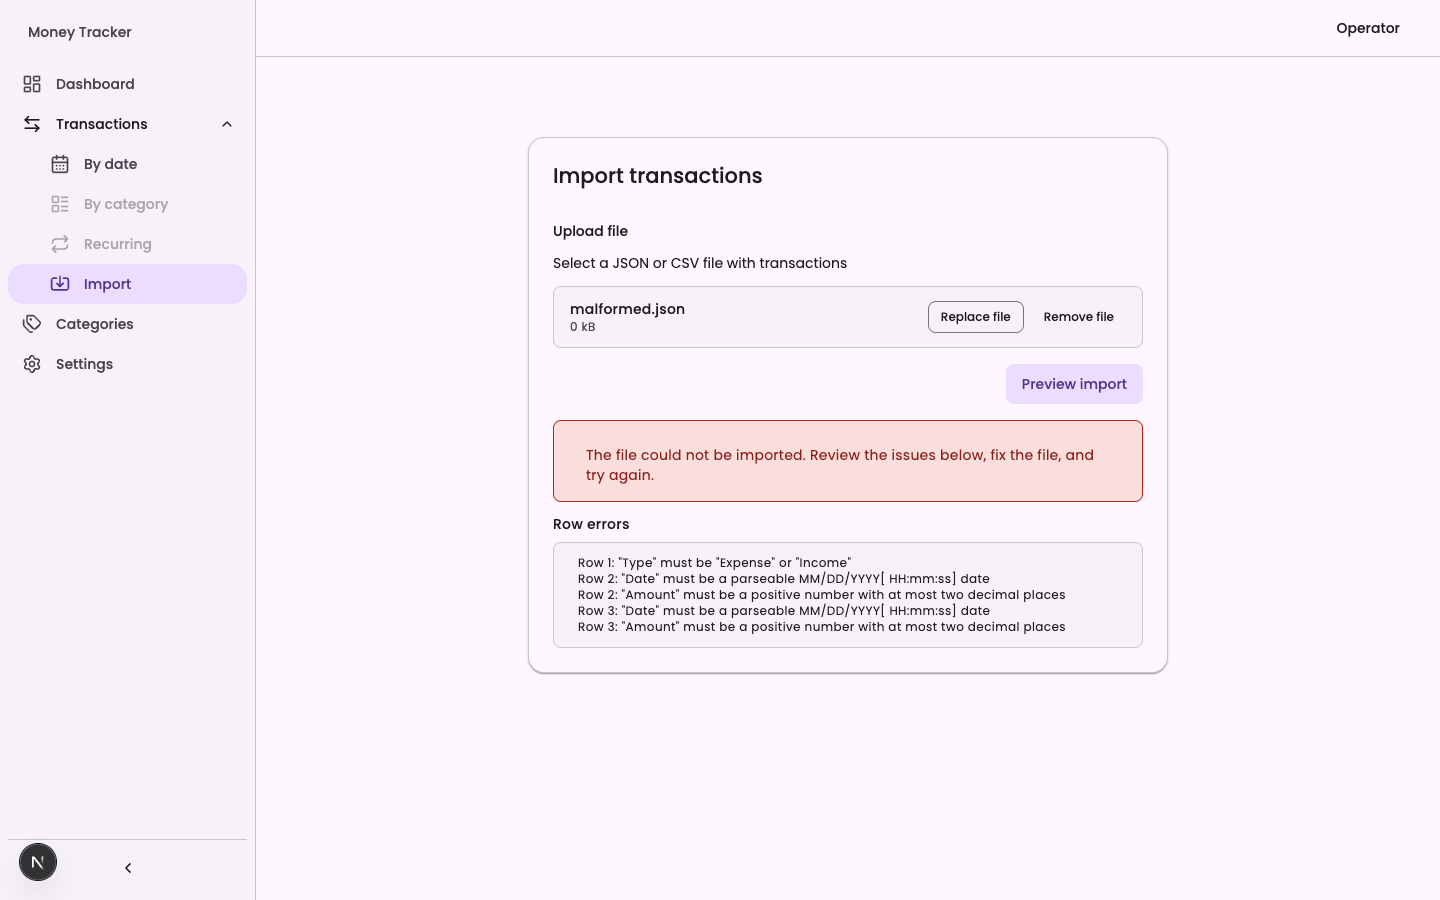
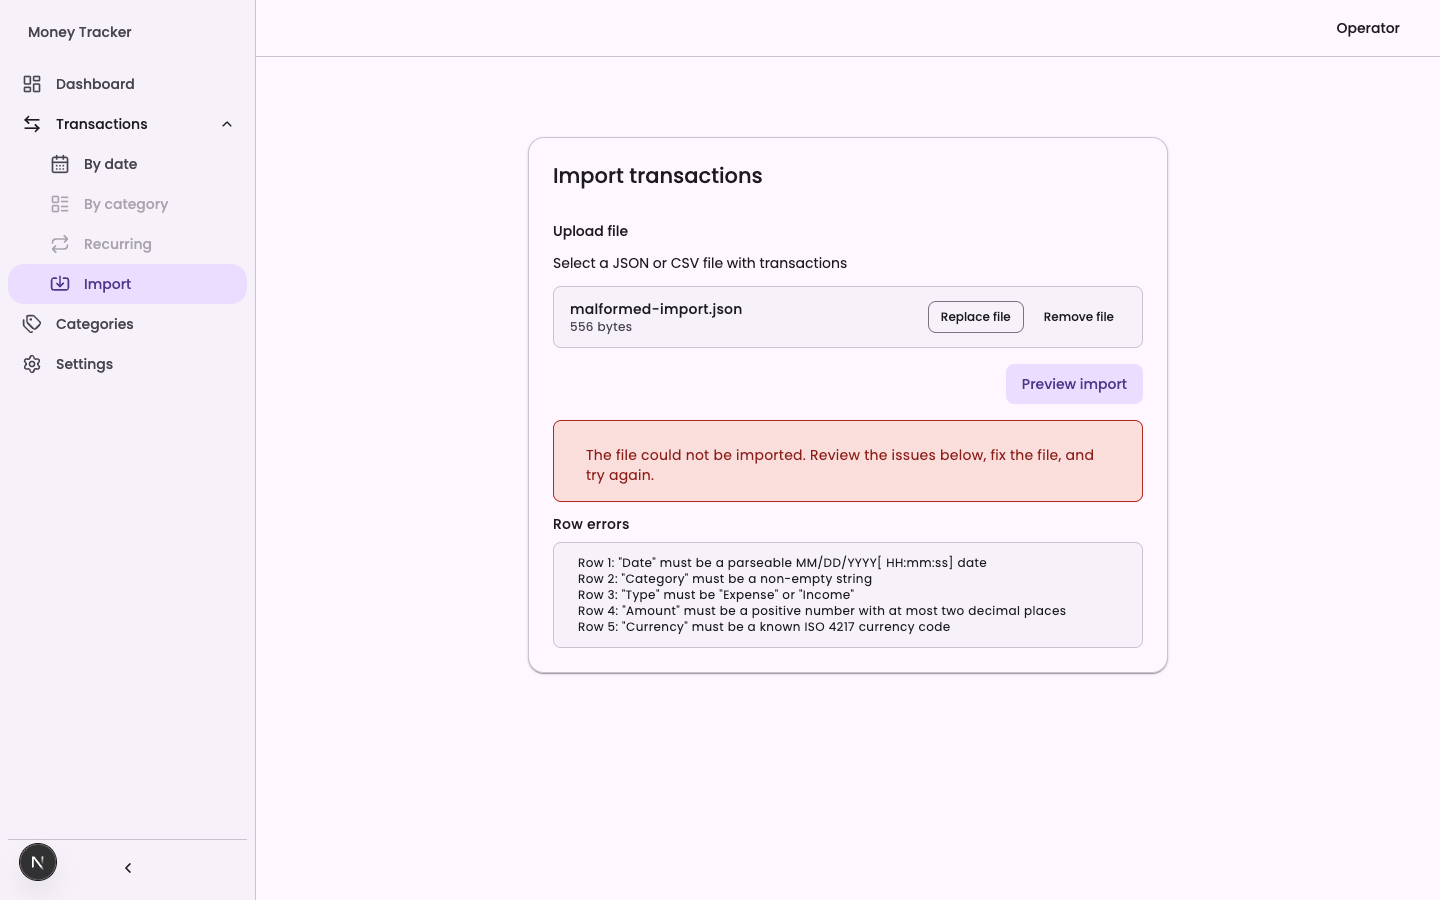
fix: import flow rejection handling + test race + dark-theme QA evidence (5-2 review)
Resolves the three must-fix findings from the 5-2 adversarial code review:
reject-safe server-action invocations via .catch to the localized UNKNOWN
error state with retry (+2 rejection tests), wait-for-non-pending-label fix
for the flaky preview-retry test (full suite green twice consecutively),
and the AC-9 visual matrix completed with 9 dark/light captures plus the
stale row-errors--desktop--light refresh; DB baseline restored post-QA.
Story status back to review.

Claude-Session: https://claude.ai/code/session_01BCg2nrjfpX9y1fbtJu7KoX

Changed region(s): [[0.4062, 0.6222, 0.75, 0.7156], [0.4688, 0.3422, 0.5, 0.3733], [0.4062, 0.3422, 0.4375, 0.3733]]

diff --git a/apps/money-tracker/src/app/[locale]/transactions/import/components/import-page-content/hooks/use-import-flow.ts b/apps/money-tracker/src/app/[locale]/transactions/import/components/import-page-content/hooks/use-import-flow.ts
@@ -1,6 +1,12 @@
 import { useCallback, useState, useTransition } from 'react';
 
-import type { ExecuteTransactionImportState, PreviewTransactionImportState } from '../../../types';
+import { UNKNOWN_ERROR_CODE } from '@supertool/next-shared/src/types/action-state';
+
+import type {
+  ExecuteTransactionImportState,
+  ImportActionError,
+  PreviewTransactionImportState,
+} from '../../../types';
 import type { ImportFileCheckErrorKey } from '../../../utils/check-import-file';
 
 import { executeTransactionImport } from '../../../../../../../actions/execute-transaction-import';
@@ -14,6 +20,11 @@ const prepareImportFormData = (file: File): FormData => {
 
   return formData;
 };
+
+const prepareUnknownImportError = (): ImportActionError => ({
+  status: 'error',
+  code: UNKNOWN_ERROR_CODE,
+});
 
 export const useImportFlow = () => {
   const [file, setFile] = useState<File | null>(null);
@@ -52,7 +63,11 @@ export const useImportFlow = () => {
     }
 
     startTransition(async () => {
-      setPreviewState(await previewTransactionImport(prepareImportFormData(file)));
+      setPreviewState(
+        await previewTransactionImport(prepareImportFormData(file)).catch(
+          prepareUnknownImportError,
+        ),
+      );
     });
   }, [file]);
 
@@ -62,7 +77,11 @@ export const useImportFlow = () => {
     }
 
     startTransition(async () => {
-      setExecuteState(await executeTransactionImport(prepareImportFormData(file)));
+      setExecuteState(
+        await executeTransactionImport(prepareImportFormData(file)).catch(
+          prepareUnknownImportError,
+        ),
+      );
     });
   }, [file]);
 

diff --git a/apps/money-tracker/src/app/[locale]/transactions/import/components/import-page-content/ImportPageContent.test.tsx b/apps/money-tracker/src/app/[locale]/transactions/import/components/import-page-content/ImportPageContent.test.tsx
@@ -103,7 +103,33 @@ describe('ImportPageContent', () => {
 
     await screen.findByText('rowErrorsTitle');
     screen.getByText('Row 1: amount is invalid');
-    screen.getByRole('button', { name: 'previewButton' });
+    await screen.findByRole('button', { name: 'previewButton' });
+  });
+
+  it('renders the unknown error panel and allows retry when the preview action rejects', async () => {
+    previewTransactionImport.mockRejectedValue(new Error('network failure'));
+    render(<ImportPageContent />);
+
+    selectValidFile();
+    fireEvent.click(screen.getByRole('button', { name: 'previewButton' }));
+
+    await screen.findByText('UNKNOWN');
+    await screen.findByRole('button', { name: 'previewButton' });
+  });
+
+  it('renders the unknown error panel and allows retry when the execute action rejects', async () => {
+    previewTransactionImport.mockResolvedValue({ status: 'success', preview: PREVIEW });
+    executeTransactionImport.mockRejectedValue(new Error('network failure'));
+    render(<ImportPageContent />);
+
+    selectValidFile();
+    fireEvent.click(screen.getByRole('button', { name: 'previewButton' }));
+
+    fireEvent.click(await screen.findByRole('button', { name: 'executeButton' }));
+
+    await screen.findByText('UNKNOWN');
+    screen.getByText('previewTitle');
+    await screen.findByRole('button', { name: 'executeButton' });
   });
 
   it('renders an execute error while keeping the preview visible', async () => {

diff --git a/_bmad-output/implementation-artifacts/5-2-standalone-import-page.md b/_bmad-output/implementation-artifacts/5-2-standalone-import-page.md
@@ -4,7 +4,7 @@ baseline_commit: e5fb03cc7042a7f7e30ef5de32e509f7a8f06e82
 
 # Story 5.2: Standalone Import Page
 
-Status: in-progress
+Status: review
 
 <!-- Note: Validation is optional. Run validate-create-story for quality check before dev-story. -->
 
@@ -95,9 +95,9 @@ Adversarial code review 2026-07-04 (autonomous run): three layers — Blind Hunt
 
 **Must-fix (blocking):**
 
-- [ ] [Review][Patch] **MUST-FIX: Unhandled server-action rejection bypasses the designed error path (AC 4)** [apps/money-tracker/src/app/[locale]/transactions/import/components/import-page-content/hooks/use-import-flow.ts:54-55,64-65] — `startTransition(async () => { setPreviewState(await previewTransactionImport(...)); })` (same in `handleExecute`) has no try/catch. If the action invocation itself rejects — browser↔server network failure mid multi-MB upload, `cookies()`/`createServerApiClient` throw, framework-level rejection — no state is ever set: the UI silently returns to idle (or hits an error boundary) with no localized `UNKNOWN` headline and no retry affordance. AC 4 says "Given **any** import error…". Fix: catch → `{ status: 'error', code: UNKNOWN_ERROR_CODE }`; add a rejected-action test to both flows. (blind+edge)
-- [ ] [Review][Patch] **MUST-FIX: New test is flaky under full-suite load — gate not reproducibly green (AC 8/NFR1)** [apps/money-tracker/src/app/[locale]/transactions/import/components/import-page-content/ImportPageContent.test.tsx:93] — `renders preview errors with row details and allows retry` failed in 2 of 2 root-level `TURBO_FORCE=true pnpm test` runs during review (`Unable to find … role "button" and name "previewButton"`), passes solo. Same race class the Dev Agent Record fixed for `executeButton` — the retry path re-queries `previewButton` while the transition is still pending; apply the same wait-for-non-pending-button fix. CI will flake on this. (orchestrator)
-- [ ] [Review][Patch] **MUST-FIX: AC-9 visual matrix missing dark-theme evidence for interactive states** [_bmad-output/implementation-artifacts/visual-qa/5-2-import-page/] — drag-over and file-selected states have **no dark captures at all** (light-only, both viewports); precheck-error exists only as mobile-light; result and row-errors lack mobile-dark. AC 9 requires "light + dark × 390px + desktop covering the interactive states", and the standing visual-evidence gate (1.4/1.8 lesson) makes missing both-theme interactive-state evidence blocking — `.dropzoneDragOver`'s `border-color: var(--primary)` styling is unverified in dark. Capture the missing cells (at minimum dark drag-over, dark file-selected, dark precheck-error) and commit. (auditor)
+- [x] [Review][Patch] **MUST-FIX: Unhandled server-action rejection bypasses the designed error path (AC 4)** [apps/money-tracker/src/app/[locale]/transactions/import/components/import-page-content/hooks/use-import-flow.ts:54-55,64-65] — `startTransition(async () => { setPreviewState(await previewTransactionImport(...)); })` (same in `handleExecute`) has no try/catch. If the action invocation itself rejects — browser↔server network failure mid multi-MB upload, `cookies()`/`createServerApiClient` throw, framework-level rejection — no state is ever set: the UI silently returns to idle (or hits an error boundary) with no localized `UNKNOWN` headline and no retry affordance. AC 4 says "Given **any** import error…". Fix: catch → `{ status: 'error', code: UNKNOWN_ERROR_CODE }`; add a rejected-action test to both flows. (blind+edge) — **RESOLVED 2026-07-04:** both action invocations now resolve rejections via `.catch(prepareUnknownImportError)` (module-level helper returning `{ status: 'error', code: UNKNOWN_ERROR_CODE }`, the shared `ActionState` UNKNOWN-fallback contract `ImportErrorPanel` already maps to a localized headline). Two new `ImportPageContent` tests assert a rejected preview and a rejected execute each render the UNKNOWN error panel and re-enable the non-pending retry button.
+- [x] [Review][Patch] **MUST-FIX: New test is flaky under full-suite load — gate not reproducibly green (AC 8/NFR1)** [apps/money-tracker/src/app/[locale]/transactions/import/components/import-page-content/ImportPageContent.test.tsx:93] — `renders preview errors with row details and allows retry` failed in 2 of 2 root-level `TURBO_FORCE=true pnpm test` runs during review (`Unable to find … role "button" and name "previewButton"`), passes solo. Same race class the Dev Agent Record fixed for `executeButton` — the retry path re-queries `previewButton` while the transition is still pending; apply the same wait-for-non-pending-button fix. CI will flake on this. (orchestrator) — **RESOLVED 2026-07-04:** the retry assertion now `await screen.findByRole('button', { name: 'previewButton' })` (same wait-for-non-pending-label pattern as the `executeButton` fix); the two new rejection tests use the same pattern. Verified with four full-suite `TURBO_FORCE=true pnpm test` runs — money-tracker (incl. this file) green in all four; runs 3 and 4 fully green consecutively (run 2 had one unrelated api Testcontainers integration-file infra failure, same Docker-load class as the warm-up incident already in Debug Log; frontend suite unaffected).
+- [x] [Review][Patch] **MUST-FIX: AC-9 visual matrix missing dark-theme evidence for interactive states** [_bmad-output/implementation-artifacts/visual-qa/5-2-import-page/] — drag-over and file-selected states have **no dark captures at all** (light-only, both viewports); precheck-error exists only as mobile-light; result and row-errors lack mobile-dark. AC 9 requires "light + dark × 390px + desktop covering the interactive states", and the standing visual-evidence gate (1.4/1.8 lesson) makes missing both-theme interactive-state evidence blocking — `.dropzoneDragOver`'s `border-color: var(--primary)` styling is unverified in dark. Capture the missing cells (at minimum dark drag-over, dark file-selected, dark precheck-error) and commit. (auditor) — **RESOLVED 2026-07-04:** 9 new captures committed (`dropzone-dragover--{desktop,mobile}--dark`, `file-selected--{desktop,mobile}--dark`, `precheck-error-unsupported--{desktop--light,desktop--dark,mobile--dark}`, `result-fresh--mobile--dark`, `row-errors--mobile--dark`) + the stale `row-errors--desktop--light.png` recaptured post-8492d1d (file card now reads "556 bytes", closing the co-listed advisory). Protocol honored: `:3000` next-server cwd lsof-verified as this checkout, seeded operator sign-in, real user-menu theme switch, playwright-cli. `.dropzoneDragOver` renders the `--primary` purple dashed border correctly in dark at both viewports; 390px `scrollWidth === innerWidth` re-verified on row-errors and result states. DB restored post-QA (TRUNCATE + QA-category delete + re-seed → 1880 rows, latest 2025-02-03, 110 categories).
 
 **Advisory (non-blocking action items):**
 
@@ -112,7 +112,7 @@ Adversarial code review 2026-07-04 (autonomous run): three layers — Blind Hunt
 - [ ] [Review][Patch] Defense-in-depth: `handleExecute`/`handlePreview` lack an in-flight early-return; two clicks inside one render tick can fire two POSTs before `isPending` disables the button (server `import_key` idempotency makes this low-risk per the story, but the guard is one line) [apps/money-tracker/src/app/[locale]/transactions/import/components/import-page-content/hooks/use-import-flow.ts] (edge)
 - [ ] [Review][Patch] Test gaps: disabled-drop and drag-over-while-disabled branches unexercised; drop-path validation (bad file dropped, not picked) untested; multi-file drop (first-of-N silently taken) untested; rejected-action case untested (folds into MUST-FIX 1's fix) [ImportDropzone.test.tsx; ImportPageContent.test.tsx] (blind)
 - [ ] [Review][Patch] Dev Agent Record bookkeeping: "55 new tests" vs ~49 counted `it(...)` blocks across the nine new test files — correct the record; coverage itself is strong [this file, Completion Notes #1/#7] (auditor)
-- [ ] [Review][Patch] Stale evidence: `row-errors--desktop--light.png` shows "0 kB" for a sub-kilobyte file, predating the `formatFileSize` bytes fix (8492d1d) — recapture alongside the MUST-FIX 3 captures [_bmad-output/implementation-artifacts/visual-qa/5-2-import-page/row-errors--desktop--light.png] (auditor)
+- [x] [Review][Patch] Stale evidence: `row-errors--desktop--light.png` shows "0 kB" for a sub-kilobyte file, predating the `formatFileSize` bytes fix (8492d1d) — recapture alongside the MUST-FIX 3 captures [_bmad-output/implementation-artifacts/visual-qa/5-2-import-page/row-errors--desktop--light.png] (auditor) — done with MUST-FIX 3 (its instruction folded this recapture in): refreshed capture shows "556 bytes".
 
 **Deferred (pre-existing / inherent, recorded in deferred-work.md):**
 
@@ -238,6 +238,8 @@ Claude Fable 5 (claude-fable-5), autonomous dev-story run 2026-07-04 on branch `
 - First full-gate `pnpm test` run failed on all 8 Testcontainers integration files (`Hook timed out in 180000ms`) — Docker Desktop was still warming up; a manual `docker run postgres:16-alpine` probe succeeded, after which the full API suite passed in 9.7s (225/225). No code issue.
 - `ImportPageContent.test.tsx` flow test was flaky under full-suite load: clicking the execute button immediately after `findByText('previewTitle')` could hit the still-`isPending`-disabled button. Fixed by waiting for the non-pending button label (`findByRole('button', { name: 'executeButton' })`) before clicking.
 - Turbo `--force` cannot be passed through the root pnpm scripts (`pnpm type-check -- --force` forwards to tsc); used `TURBO_FORCE=true pnpm <gate>` for all forced gate runs.
+- Review-fix pass (2026-07-04): four consecutive full-suite `TURBO_FORCE=true pnpm test` runs to prove the retry-test fix — money-tracker 42 files / 215 tests green in all four; run 2 hit one api Testcontainers integration-file infra failure under parallel Docker load (5 tests skipped after hook failure, unrelated to this story's code — same class as the Docker warm-up incident above); runs 3 and 4 fully green (8/8 packages) back-to-back.
+- Review-fix visual QA: playwright-cli `upload` only accepts files under the repo root — QA fixtures staged in the git-ignored `.playwright-cli/qa-fixtures/`; drag-over state driven by dispatching a native `DragEvent('dragover')` on the `[data-drag-over]` element (React synthetic handler fires; attribute flips to `true` on re-render).
 
 ### Completion Notes List
 
@@ -254,6 +256,7 @@ Claude Fable 5 (claude-fable-5), autonomous dev-story run 2026-07-04 on branch `
 5. **Reference comparison:** reference standalone page (`import--page--desktop.png`) is a bare native "Choose file" input with no styling — supertool's dropzone/file-card/preview/result exceed it as mandated (RP-F2). Reference's rich preview (onboarding-only, client-parsed raw-row table) deliberately not carried (D-A). No metadata/loading.tsx carried (D-G).
 6. **DB restored post-QA:** `TRUNCATE transactions` + delete QA-created categories + re-seed → verified 1880 rows, latest `2025-02-03`, zero stray `QA %` categories — 5-3's baseline holds.
 7. **Gates (all via pnpm scripts, `TURBO_FORCE=true`):** test 8/8 packages (money-tracker 42 files / 218 tests incl. 55 new; api 225), type-check 9/9, lint clean, stylelint clean, fmt:check clean, `i18n:parity` OK, generated-client drift gate clean (`generate:client` → no diff), `pnpm build` 4/4.
+8. **Review-fix pass (2026-07-04, must-fix findings 1–3):** `use-import-flow.ts` resolves rejected action invocations to the localized UNKNOWN error state via `.catch(prepareUnknownImportError)` (+2 rejection tests, both flows, asserting the UNKNOWN panel and a re-enabled retry button); the flaky retry assertion now waits for the non-pending `previewButton` label (`findByRole`); AC-9 matrix completed with 9 new captures (dark drag-over/file-selected at both viewports, precheck-error desktop light+dark and mobile-dark, mobile-dark result and row-errors) + the stale `row-errors--desktop--light.png` recaptured showing byte-accurate file size — dark `.dropzoneDragOver` `--primary` border confirmed rendering, 390px no-overflow re-verified, DB baseline restored (1880 rows / latest 2025-02-03 / 110 categories). All gates re-forced green: fmt:check, lint, stylelint, type-check 9/9, i18n:parity, build 4/4, full test suite green twice consecutively (money-tracker green in all four runs; one api Testcontainers infra flake in run 2, see Debug Log). Money-tracker suite now 215 tests (the prior "218" was the bookkeeping slip already flagged by the advisory item).
 
 ### File List
 
@@ -280,7 +283,7 @@ Claude Fable 5 (claude-fable-5), autonomous dev-story run 2026-07-04 on branch `
 - `apps/money-tracker/src/app/[locale]/transactions/import/components/import-result-panel/ImportResultPanel.tsx` (new) + `.module.scss` (new) + `.test.tsx` (new)
 - `apps/money-tracker/src/app/[locale]/transactions/import/components/near-duplicate-alert/NearDuplicateAlert.tsx` (new) + `.module.scss` (new)
 - `apps/money-tracker/src/app/[locale]/transactions/import/components/import-page-content/ImportPageContent.tsx` (new) + `.module.scss` (new) + `.test.tsx` (new) + `hooks/use-import-flow.ts` (new)
-- `_bmad-output/implementation-artifacts/visual-qa/5-2-import-page/*.png` (new — 23 captures)
+- `_bmad-output/implementation-artifacts/visual-qa/5-2-import-page/*.png` (new — 23 captures; review-fix pass added 9 dark/light matrix cells and refreshed `row-errors--desktop--light.png` → 32 captures)
 - `_bmad-output/implementation-artifacts/sprint-status.yaml` (modified — 5-2 → review)
 - `_bmad-output/implementation-artifacts/5-2-standalone-import-page.md` (modified — this record)
 
@@ -292,3 +295,4 @@ Claude Fable 5 (claude-fable-5), autonomous dev-story run 2026-07-04 on branch `
 | 2026-07-04 | Fresh-context validation pass applied: added the Next.js server-action body-size-limit gate (`next.config.ts` — default 1 MB would make the 5 MiB contract unreachable) + a 1–5 MiB live QA scenario, case-insensitive extension pre-check, runtime type guard for `details.rowErrorList` (no `as`), `response?.status` optionality for the 413 branch, post-2025-02 fixture dates + post-QA DB restore for the auto-fit capture, result-panel `Link` (not `NavigationLink`), and reference-log path correction. |
 | 2026-07-04 | Implemented (autonomous dev-story run): import page + dropzone + server actions + preview/result panels, sidebar flip, `transactionsImportPage` i18n (en+uk), body-size limit raise, 55 new tests; all gates forced-green; visual QA matrix committed (idempotency `duplicateRows: 1880`, fresh-import auto-fit to 2025-03, row errors, 2.1 MB end-to-end); DB baseline restored — status → review. |
 | 2026-07-04 | Adversarial code review (autonomous, 3 layers + gates): 3 must-fix (unhandled action rejection vs AC 4; flaky `ImportPageContent` retry test under full-suite load; AC-9 dark-theme capture gaps), 10 advisory, 2 deferred to deferred-work.md, 3 dismissed. Hard rules verified clean (NFR6, D-D 413-by-status, shared constants, Next 16.2.7 config placement, i18n parity/ICU, D-A…D-H). Findings left as action items — status → in-progress. |
+| 2026-07-04 | Review-fix pass (autonomous): resolved the 3 must-fix findings — action-rejection `.catch` → localized UNKNOWN state with 2 new rejection tests; retry-test wait-for-non-pending-label fix (full suite green twice consecutively under `TURBO_FORCE=true`); AC-9 matrix completed (9 new dark/light captures + stale row-errors refresh, dark drag-over `--primary` border verified, DB baseline restored). Stale-evidence advisory closed as part of must-fix 3; remaining 9 advisory items untouched by design. All gates re-forced green — status → review. |
